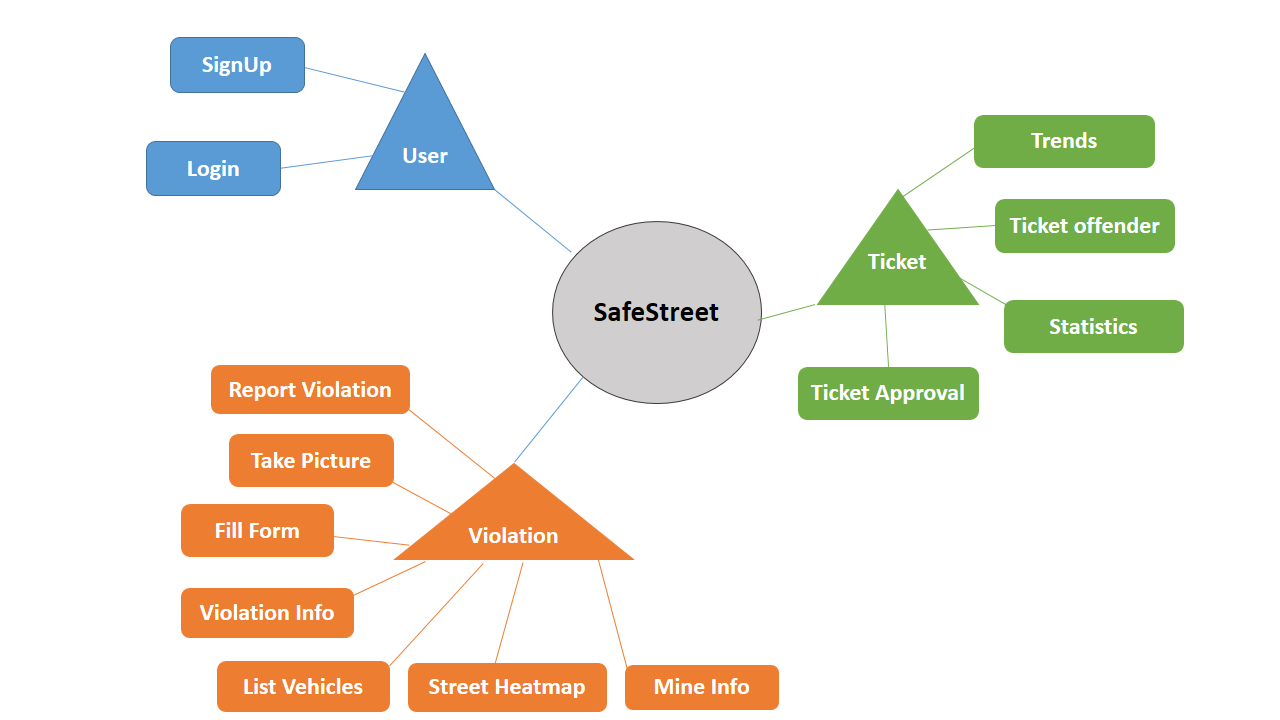
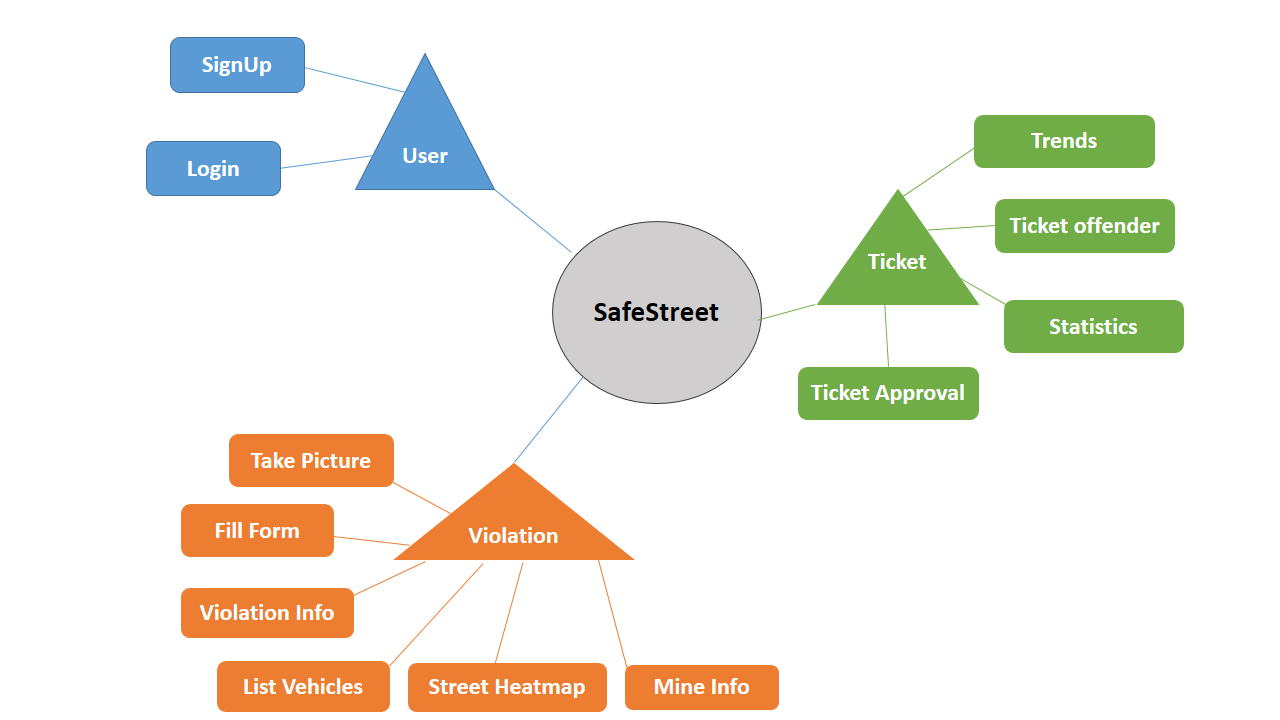
Changed in Integration

Changed region(s): [[0.1562, 0.4889, 0.3438, 0.5806]]

diff --git a/DD/Latex File/Files/implemintest.tex b/DD/Latex File/Files/implemintest.tex
@@ -1,15 +1,15 @@
 This section will discuss the implementation, integration and testing of the SafeStreet application. The section aims to prevent any setbacks entailing changes on the project once started its development and do multiple tasks twice. First of all, it is important to divide the project into smaller components in order to have more concrete goals that help keep the developers’ motivation high and make a straightforward development of the project. Therefore, we will divide the project in dfferent components, starting from the ones that are responsible of the basic features and going on until the end, where we will develop the most speciﬁc ones. It is not a new method, because it has been studied during this course and it is referred to as ‘bottom-up’ strategy. This method will help providing a better integration of the project tier-by-tier and make different tests of the behaviour of the application before it ends. The System can be divided into three main parts as following:
 \begin{itemize}
-    \item \textbf{Frontend components:} contains the Mobile App.
-    \item \textbf{Backend components:} contains the application server with all its components and the DBMS.
-    \item \textbf{External components:} contains all the external components, such as the ALPR, to extract the license plate from a photo, and so on.
+    \item \textbf{Mobile Application}
+    \item \textbf{Application Server}
+    \item \textbf{External components} 
 \end{itemize}
- It should be noted that the external systems’ components need not to be implemented and tested just because they are external and they can be considered reliable.
-Going back to our project, we will divide the Mobile App component to three main entities, corresponding to User, Violation and Ticket.
+ External components contains all the external components, such as the ALPR, to extract the license plate from a photo, , Map API and  so on. It should be noted that the external systems’ components need not to be implemented and tested just because they are external and they can be considered reliable.
+Going back to our project, we will divide the Mobile App component and Application Server component to three main entities, corresponding to User, Violation and Ticket.
 The services that have to be created for each entity are:
 \begin{itemize}
 \item{} \textit{User}: Sign-UP, Login
-\item{} \textit{Violation}: Report Violation, Take Picture, Fill Form, Violation Info, List Vehicles, Street Heatmap, Mine information.
+\item{} \textit{Violation}: Take Picture, Fill Form, Violation Info, List Vehicles, Street Heatmap, Mine information.
 \item{} \textit{Ticket}: Ticket Approval, Statistics, Ticket offenders, Trends.
 \end{itemize}
 
@@ -26,45 +26,75 @@ As mentioned in \ref{fig:Test}, we will start with developing the User component
 \subsection{Sequence of component integration}
 The diagrams below describe the sequence of the component implementation, integration and testing of the system. The arrows starts from the component which uses the other one.
 
-\paragraph{Integration of the all internal components of the application server}
-Firstly all the components will be implemented and tested with unit tests. Then the integration process will proceed in the following order and the integration is tested as well.
+\paragraph{Integration of the all components of the Mobile Application}
+Firstly all the Mobile Application components will be implemented and tested with unit tests. Then the integration process will proceed and the integration is tested as well. All the Use Case Interactor should be integraterd with their corresponding Presenter and Contoroler. In the following integration between main components are shown.
 
 \begin{figure}[H]
 \centering
-\includegraphics[width=\textwidth]{Images/reportviolationintegration.png}
-\caption{\label{fig:reportviolationintegration} report violation integration}
+\includegraphics[width=\textwidth]{Images/LoginIntegration.png}
+\caption{\label{fig:LoginIntegration}Mobile application login integration}
 \end{figure}
 
 \begin{figure}[H]
 \centering
-\includegraphics[width=\textwidth]{Images/MineInfoIntegration.png}
-\caption{\label{fig:MineInfoIntegration} Mine Information integration}
+\includegraphics[width=\textwidth]{Images/TakePicIntegration.png}
+\caption{\label{fig:TakePicIntegration}Take picture integration}
 \end{figure}
 
 \begin{figure}[H]
 \centering
-\includegraphics[width=\textwidth]{Images/TicketIntegration.png}
-\caption{\label{fig:TicketIntegrationn} Issuing Ticket integration}
+\includegraphics[width=\textwidth]{Images/SendForm.png}
+\caption{\label{fig:SendFormIntegrationn} Send form integration}
 \end{figure}
 
 \begin{figure}[H]
 \centering
-\includegraphics[width=\textwidth]{Images/StatisticsIntegration.png}
-\caption{\label{fig:StatisticsIntegration} Show Statistics integration}
+\includegraphics[width=\textwidth]{Images/SignUpIntegration.png}
+\caption{\label{fig:SignUpIntegration}Mobile application sign up integration}
 \end{figure}
+
+\paragraph{Integration of the all components of the Server Application}
+When all the Mobile Application components implemented, tested and integrated, we should do the the same for Server Application components. In this part all the Use Case Interactor should be integraterd with their corresponding Presenter and Contoroler. In the following integration between main components are shown.
+
+\begin{figure}[H]
+\centering
+\includegraphics[width=\textwidth]{Images/ServerLoginIntegration.png}
+\caption{\label{fig:ServerLoginIntegration}Server login integration}
+\end{figure}
+
+\begin{figure}[H]
+\centering
+\includegraphics[width=\textwidth]{Images/ServerSignUPIntegration.png}
+\caption{\label{fig:ServerSignUPIntegration}Server sign uP integration}
+\end{figure}
+
+\begin{figure}[H]
+\centering
+\includegraphics[width=\textwidth]{Images/ServerGetPicIntegration.png}
+\caption{\label{fig:ServerGetPicIntegration} Server get picture integration}
+\end{figure}
+
+\begin{figure}[H]
+\centering
+\includegraphics[width=\textwidth]{Images/TicketCreatorIntegration.png}
+\caption{\label{fig:TicketCreatorIntegration} Ticket Creator integration}
+\end{figure}
+
+\begin{figure}[H]
+\centering
+\includegraphics[width=\textwidth]{Images/StreetHeatmapIntegration.png}
+\caption{\label{fig:StreetHeatmapIntegration}Street Heat map Integration}
+\end{figure}
+
 
 \paragraph{Integration of the frontend with backend}
-Once all the components are implemented and tested among each others, the frontend will be integrated and tested within the backend. \\
-The subsystems to be integrated are 1:
-\begin{itemize}
-       \item The Mobile app Client, that interacts with the Use Case Interactor
-\end{itemize}
+Once all the components are implemented and tested among each others, the Mobile Application will be integrated and tested within the Server Application. \\
 
 \begin{figure}[H]
 \centering
-\includegraphics[width=\textwidth]{Images/BackEndIntegration.png}
-\caption{\label{fig:BackEndIntegration} Mobile App integration}
+\includegraphics[width=\textwidth]{Images/MobileServerIntegration.png}
+\caption{\label{fig:MobileServerIntegration} Integration of Mobile Application and Server }
 \end{figure}
 
 \paragraph{Integration of all subsystems}
-Once the front-end has been integrated with the Back-end, the system will be fully tested, with the respect of all the components shown in the Component Diagram.
+Once theMobile Application has been integrated with theServer side, the system will be fully tested, with the respect of all the components shown in the Component Diagram.
